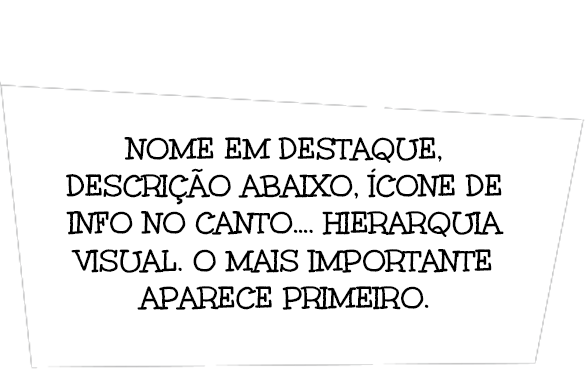
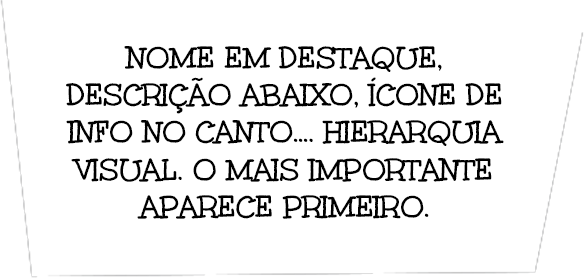
Adicionando imagem do corredor e ajustando balões oficina de design

diff --git a/src/App.jsx b/src/App.jsx
@@ -22,7 +22,7 @@ import FALA2QUADRO1 from './assets/intro/FALA2QUADRO1.png';
 import FALASQUADRO2 from './assets/intro/FALASQUADRO2.png';
 import FALASQUADRO3 from './assets/intro/FALASQUADRO3.png';
 import FALASQUADRO5 from './assets/intro/FALASQUADRO5.png';
-import imagemcorredor from './assets/imagemcorredor.jpeg';
+import imagemcorredor from './assets/corredor.png';
 import pegadas from './assets/pegadas.png';
 import click from "./sounds/click.mp3";
 import music from "./sounds/music.mp3";
